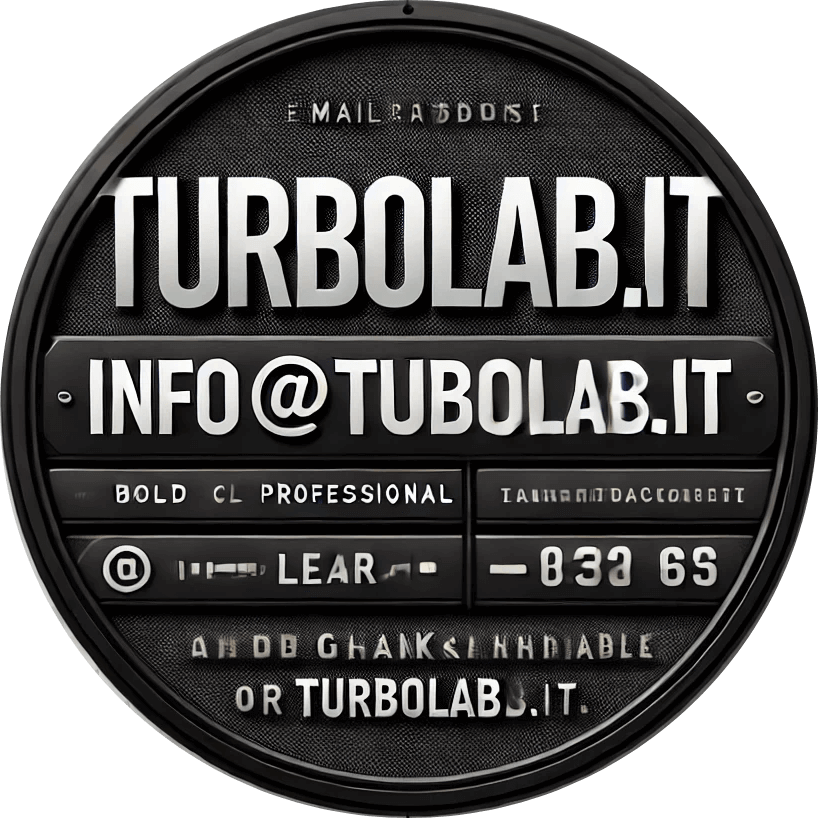
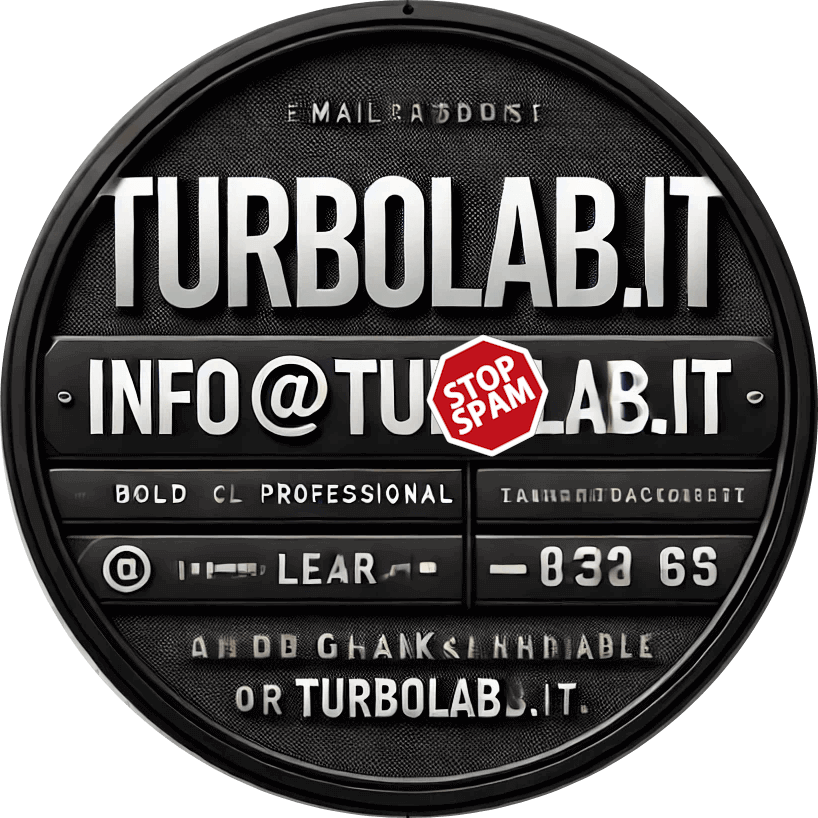
rework contact image + compression via tinypng

Changed region(s): [[0.5196, 0.3973, 0.6724, 0.5807]]

diff --git a/assets/styles/glow.css b/assets/styles/glow.css
@@ -1,0 +1,49 @@
+.glowing-image-container {
+    display: inline-block;
+    position: relative;
+    width: fit-content;
+}
+
+.glowing-image {
+    border-radius: 50%; /* Ensure the image is round */
+    animation: glowing 2s infinite;
+}
+
+@keyframes glowing {
+
+    0% {
+        box-shadow: 0 0 0px red;
+    }
+    10% {
+        box-shadow: 0 0 4px red;
+    }
+    20% {
+        box-shadow: 0 0 8px red;
+    }
+    30% {
+        box-shadow: 0 0 12px red;
+    }
+    40% {
+        box-shadow: 0 0 16px red;
+    }
+
+    50% {
+        box-shadow: 0 0 20px red;
+    }
+
+    60% {
+        box-shadow: 0 0 16px red;
+    }
+    70% {
+        box-shadow: 0 0 12px red;
+    }
+    80% {
+        box-shadow: 0 0 8px red;
+    }
+    90% {
+        box-shadow: 0 0 4px red;
+    }
+    100% {
+        box-shadow: 0 0 0px red;
+    }
+}

diff --git a/assets/js/scroll-to-selector.js b/assets/js/scroll-to-selector.js
@@ -4,9 +4,6 @@ jQuery(document).on('click', '.tli-scroll-to', function(event){
 
     event.preventDefault();
 
-    let selectorToScrollTo = $(this).data('tli-scroll-to');
-
-    $("html, body").animate({
-        scrollTop: $(selectorToScrollTo).offset().top
-    }, 1000);
+    let selectorToScrollTo = jQuery(this).attr('href');
+    jQuery(selectorToScrollTo).get(0).scrollIntoView({behavior: 'smooth'});
 });

diff --git a/assets/styles/app.css b/assets/styles/app.css
@@ -1,3 +1,5 @@
+@import 'glow.css';
+
 body {
     background-color: lightgray;
 }
@@ -14,10 +16,6 @@ footer .site-description {
 .footer-copyright .copyright-item p a {
     color: white;
     text-decoration: underline;
-}
-
-#contact img {
-    max-width: 150px;
 }
 
 .partner-container {
